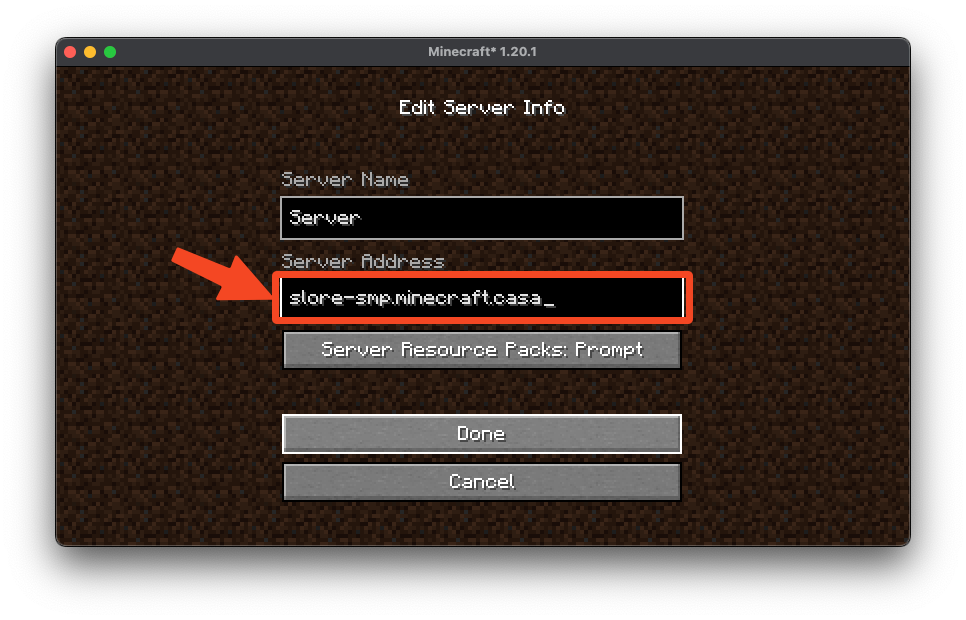
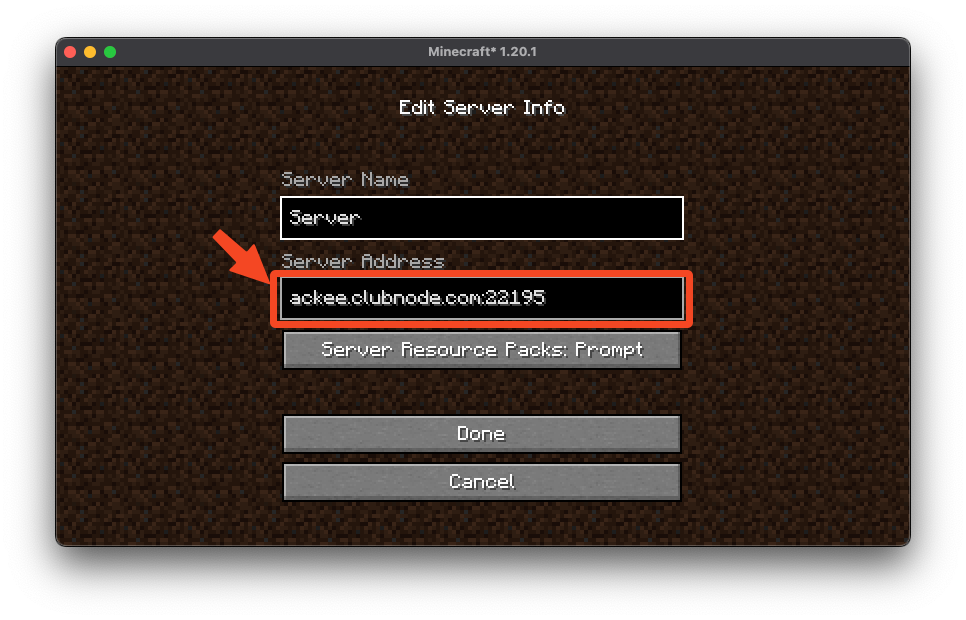
updated ip

diff --git a/content/Default Minecraft launcher.md b/content/Default Minecraft launcher.md
@@ -30,7 +30,7 @@ You should see a screen that looks like this, click on the "Add Server" button
 ![[Official_9.png]]
 After that you should see a screen like this, fill out the spaces like I did with the server information.
 The server's IP address is:
-```slore-smp.minecraft.casa```
+```ackee.clubnode.com:22195```
 ![[Official_10.png]]
 Once you did all of that click the "Done" button and make sure to select the server and click "Join Server"!
 ![[Common_3.png]]
